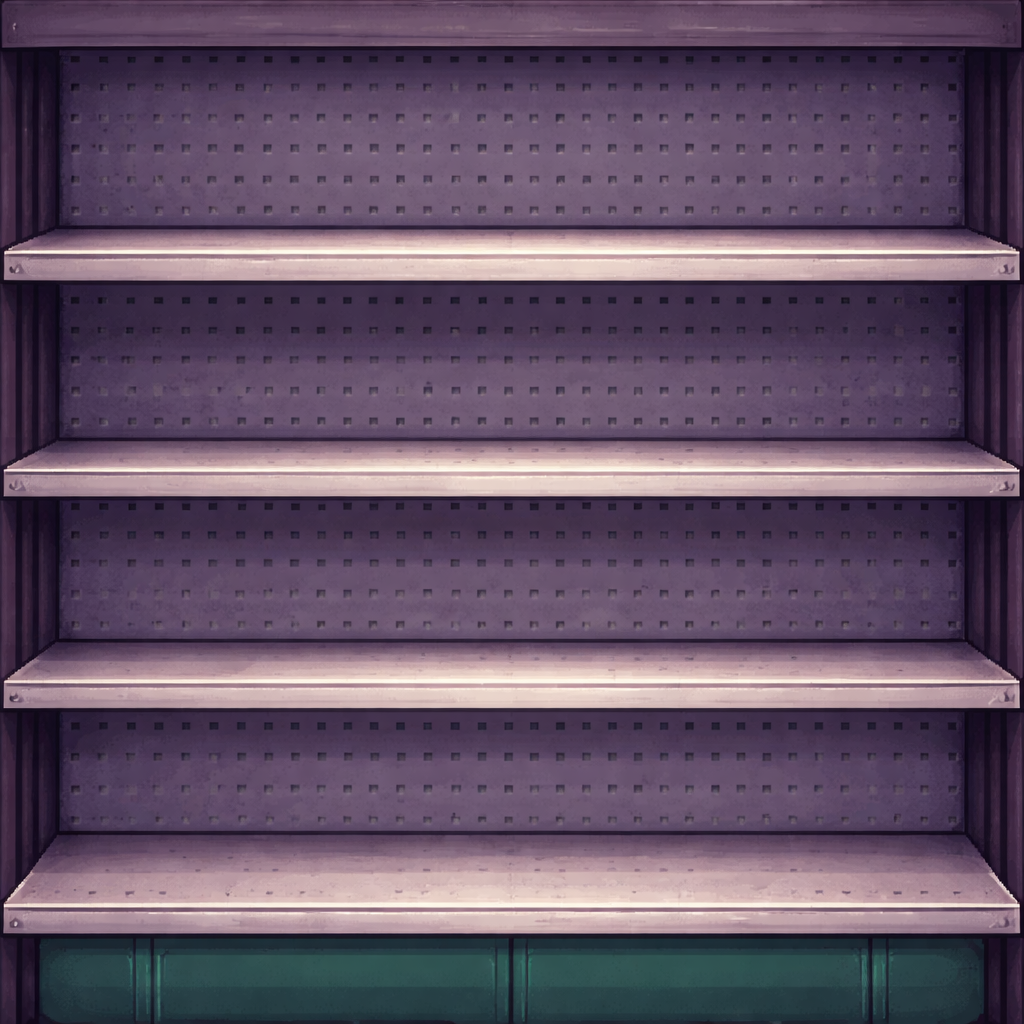
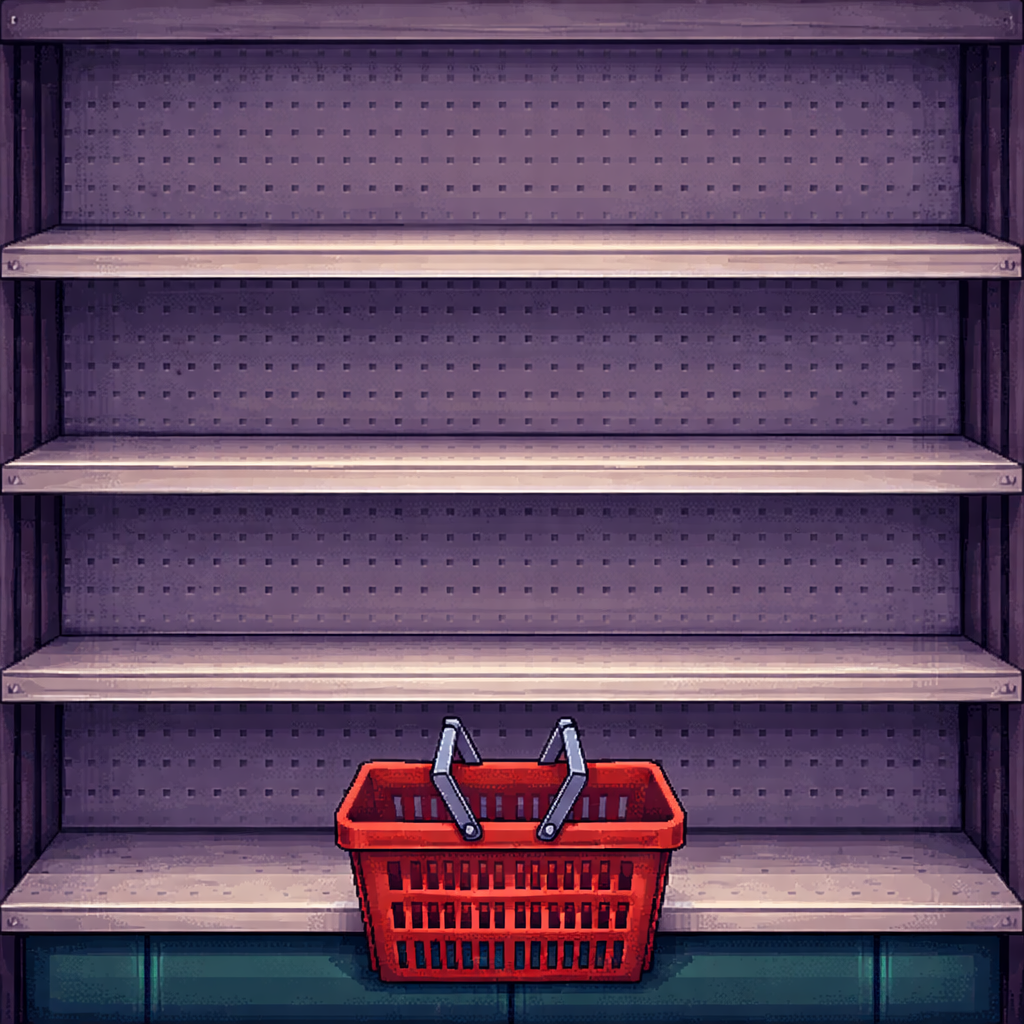
feat: update ShopScene to include new item assets and interactive purchase functionality (ShopScene.ts), add new background image for shop scene (ShopBg.png), update controller asset (controller.png)

Changed region(s): [[0.0, 0.0, 1.0, 1.0], [0.6875, 0.5312, 0.75, 0.5625], [0.125, 0.5312, 0.1875, 0.5625]]

diff --git a/packages/front/src/phaser/ShopScene.ts b/packages/front/src/phaser/ShopScene.ts
@@ -1,20 +1,231 @@
 import Phaser from "phaser";
+import Popup from "./ui/Popup";
 
 export default class ShopScene extends Phaser.Scene {
+	private readonly BASE_SIZE = 600;
+	private readonly basket_position = { x: 0.5, y: 0.85 };
+	
+
+	private bg!: Phaser.GameObjects.Image;
+
+	private game_started: boolean = false;
+
+	private popup!: Popup;
+
+	private popup_active: boolean = true;
+
+	private readonly ITEMS_LAYOUT = [
+		{ item: "duck", x: 0.1, y: 0.15 },
+		{ item: "ball", x: 0.3, y: 0.15 },
+		{ item: "anxiety", x: 0.5, y: 0.15 },
+		{ item: "bear", x: 0.7, y: 0.15 },
+		{ item: "book", x: 0.88, y: 0.15 },
+		{ item: "camera", x: 0.1, y: 0.37 },
+		{ item: "chocolate", x: 0.3, y: 0.37 },
+		{ item: "controller", x: 0.5, y: 0.37 },
+		{ item: "flower", x: 0.7, y: 0.37 },
+		{ item: "phone", x: 0.88, y: 0.37 },
+		{ item: "sleep", x: 0.1, y: 0.57 },
+		{ item: "swamp", x: 0.35, y: 0.57 },
+		{ item: "water", x: 0.65, y: 0.57 },
+		{ item: "wine", x: 0.88, y: 0.57 },
+	];
+
+	private items_picks: string[] = [];
+
+	private items: Record<string, Phaser.GameObjects.Sprite> = {};
+
 	constructor() {
 		super("ShopScene");
 	}
 
-	create() {
-		this.add.text(400, 300, "SHOP LEVEL", {
-			fontSize: "32px",
-			color: "#ffffff",
-		}).setOrigin(0.5);
+	preload() {
+		this.load.image("shop_bg", "assets/shop/ShopBg.png");
+		this.load.image("duck", "assets/shop/duck.png");
+		this.load.image("ball", "assets/shop/ball.png");
+		this.load.image("anxiety", "assets/shop/anxiety.png");
+		this.load.image("bear", "assets/shop/bear.png");
+		this.load.image("book", "assets/shop/book.png");
+		this.load.image("camera", "assets/shop/camera.png");
+		this.load.image("chocolate", "assets/shop/chocolate.png");
+		this.load.image("controller", "assets/shop/controller.png");
+		this.load.image("flower", "assets/shop/flower.png");
+		this.load.image("phone", "assets/shop/phone.png");
+		this.load.image("sleep", "assets/shop/sleep.png");
+		this.load.image("swamp", "assets/shop/swamp.png");
+		this.load.image("water", "assets/shop/water.png");
+		this.load.image("wine", "assets/shop/wine.png");
+	}
 
-		const keyboard = this.input.keyboard;
-		if (!keyboard) return;
-		keyboard.once("keydown-ESC", () => {
-			this.scene.start("WorldMapScene");
+	create() {
+		this.bg = this.add.image(0, 0, "shop_bg").setOrigin(0.5);
+		this.items.duck = this.add.sprite(0, 0, "duck")
+		this.items.ball = this.add.sprite(0, 0, "ball")
+		this.items.anxiety = this.add.sprite(0, 0, "anxiety")
+		this.items.bear = this.add.sprite(0, 0, "bear")
+		this.items.book = this.add.sprite(0, 0, "book")
+		this.items.camera = this.add.sprite(0, 0, "camera")
+		this.items.chocolate = this.add.sprite(0, 0, "chocolate")
+		this.items.controller = this.add.sprite(0, 0, "controller")
+		this.items.flower = this.add.sprite(0, 0, "flower")
+		this.items.phone = this.add.sprite(0, 0, "phone")
+		this.items.sleep = this.add.sprite(0, 0, "sleep")
+		this.items.swamp = this.add.sprite(0, 0, "swamp")
+		this.items.water = this.add.sprite(0, 0, "water")
+		this.items.wine = this.add.sprite(0, 0, "wine")
+		this.popup = new Popup(this);
+		this.items_picks = [];
+
+		if (!this.game_started) {
+			this.popup.show(
+				"You have entered the shop. Browse 3 items and make your purchases.",
+				[
+					{
+						label: "Got it",
+						onClick: () => {
+							this.popup.hide();
+							this.game_started = true;
+							this.popup_active = false;
+						},
+					},
+				]
+			);
+		}
+		this.centerScene();
+		this.makeItemsInteractive();
+
+		this.scale.on("resize", this.onResize, this);
+		this.events.on(Phaser.Scenes.Events.SHUTDOWN, () => {
+			this.scale.off("resize", this.onResize, this);
 		});
+	}
+
+	private makeItemsInteractive() {
+		for (const layout of this.ITEMS_LAYOUT) {
+			const item = this.items[layout.item];
+			if (item) {
+				this.makeItemInteractive(item, layout.item);
+			}
+		}
+	}
+
+	private makeItemInteractive(item: Phaser.GameObjects.Sprite, itemName: string) {
+		item.setInteractive();
+		item.on("pointerover", () => {
+			const scale = item.getData("baseScale");
+			item.setScale(scale * 1.1);
+			item.setTint(0xffffaa);
+		});
+		item.on("pointerout", () => {
+			const scale = item.getData("baseScale");
+			item.setScale(scale);
+			item.clearTint();
+		});
+		item.on("pointerdown", () => {
+			if (this.popup_active) return;
+			this.popup_active = true;
+			this.popup.show(
+				`You selected the ${itemName}. Would you like to purchase it?`,
+				[
+					{
+						label: "Buy",
+						onClick: () => {
+							this.popup.hide();
+							this.popup_active = false;
+							item.setData("picked", true);
+							this.tweens.add({
+								targets: item,
+								x: Math.round(this.scale.width * this.basket_position.x),
+								y: Math.round(this.scale.height * this.basket_position.y),
+								scale: 0.1,
+								alpha: 0.5,
+								duration: 800,
+								ease: 'Cubic.easeIn',
+								onComplete: () => {
+									item.setVisible(false);
+									this.items_picks.push(itemName);
+									if (this.items_picks.length >= 3) {
+										this.show_purchase_popup();
+									}
+								}
+							});
+						},
+					},
+					{
+						label: "Cancel",
+						onClick: () => {
+							this.popup.hide();
+							this.popup_active = false;
+						},
+					},
+				]
+			);
+		});
+	}
+
+	private show_purchase_popup() {
+		const items_list = this.items_picks.join(", ");
+		if (this.popup_active) return;
+		this.popup_active = true;
+		this.popup.show(
+			`You have purchased: ${items_list}.`,
+			[
+				{
+					label: "OK",
+					onClick: () => {
+						this.popup.hide();
+						this.popup_active = false;
+						this.end_shopping();
+					},
+				},
+			]
+		);
+	}
+
+	private end_shopping() {
+		this.popup.show(
+			"Returning to the world map.",
+			[
+				{
+					label: "OK",
+					onClick: () => {
+						this.popup.hide();
+						this.popup_active = false;
+						this.scene.start("WorldMapScene");
+					},
+				},
+			]
+		);
+	}
+
+	private onResize() {
+		if (!this.scene.isActive()) return;
+		this.centerScene();
+	}
+
+	private centerScene() {
+		const size = Math.min(this.scale.width, this.scale.height);
+		const cx = Math.round(this.scale.width / 2);
+		const cy = Math.round(this.scale.height / 2);
+
+		this.bg.setDisplaySize(size, size);
+		this.bg.setPosition(
+			cx,
+			cy
+		);
+		const itemSize = size * 0.15;
+		for (const layout of this.ITEMS_LAYOUT) {
+			const item = this.items[layout.item];
+			if (item || !item.getData("picked")) {
+				const texture = item.texture.getSourceImage() as HTMLImageElement;
+				const baseScale = itemSize / Math.max(texture.width, texture.height);
+				item.setScale(baseScale);
+				item.setData("baseScale", baseScale);
+				item.setPosition(
+					Math.round(cx - size / 2 + layout.x * size),
+					Math.round(cy - size / 2 + layout.y * size)
+				);
+			}
+		}
 	}
 }
